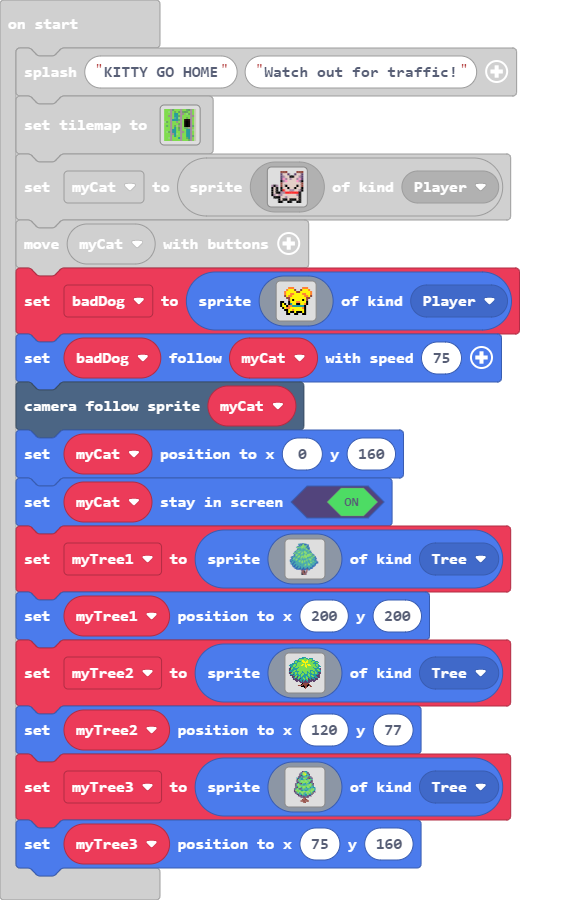
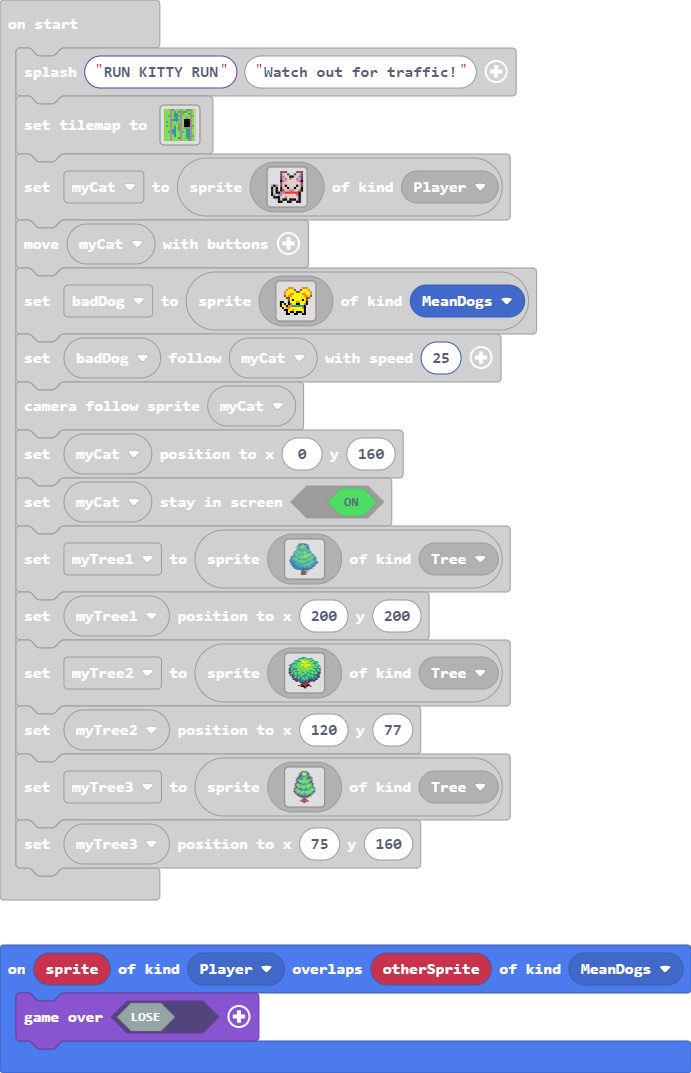
changed name

diff --git a/main.ts b/main.ts
@@ -1,5 +1,6 @@
 namespace SpriteKind {
     export const Tree = SpriteKind.create()
+    export const MeanDogs = SpriteKind.create()
 }
 scene.onOverlapTile(SpriteKind.Player, sprites.castle.tilePath4, function (sprite, location) {
     game.over(true, effects.hearts)
@@ -9,6 +10,9 @@ scene.onOverlapTile(SpriteKind.Player, sprites.castle.tileDarkGrass1, function (
 })
 scene.onOverlapTile(SpriteKind.Player, sprites.castle.tileDarkGrass3, function (sprite, location) {
     sayWetPaws()
+})
+sprites.onOverlap(SpriteKind.Player, SpriteKind.MeanDogs, function (sprite, otherSprite) {
+    game.over(false)
 })
 scene.onHitWall(SpriteKind.Enemy, function (sprite, location) {
     sprite.destroy()
@@ -26,7 +30,7 @@ let car3: Sprite = null
 let car2: Sprite = null
 let car1: Sprite = null
 let myCat: Sprite = null
-game.splash("KITTY GO HOME", "Watch out for traffic!")
+game.splash("RUN KITTY RUN", "Watch out for traffic!")
 tiles.setTilemap(tilemap`level1`)
 myCat = sprites.create(img`
     . . . . e e e . . . . e e e 
@@ -60,8 +64,8 @@ let badDog = sprites.create(img`
     . . f f 5 5 4 5 5 5 5 5 f . . . 
     . . . f 5 f f 5 f f f 5 f . . . 
     . . . f f . . f f . . f f . . . 
-    `, SpriteKind.Player)
-badDog.follow(myCat, 75)
+    `, SpriteKind.MeanDogs)
+badDog.follow(myCat, 25)
 scene.cameraFollowSprite(myCat)
 myCat.setPosition(0, 160)
 myCat.setStayInScreen(true)
